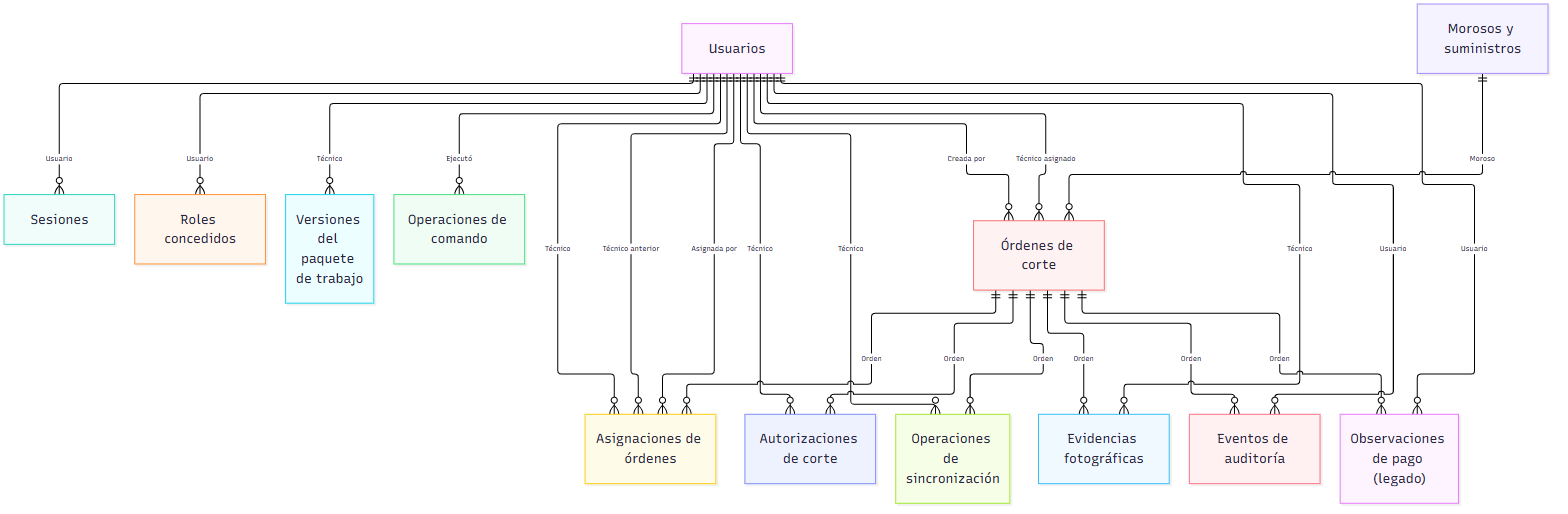
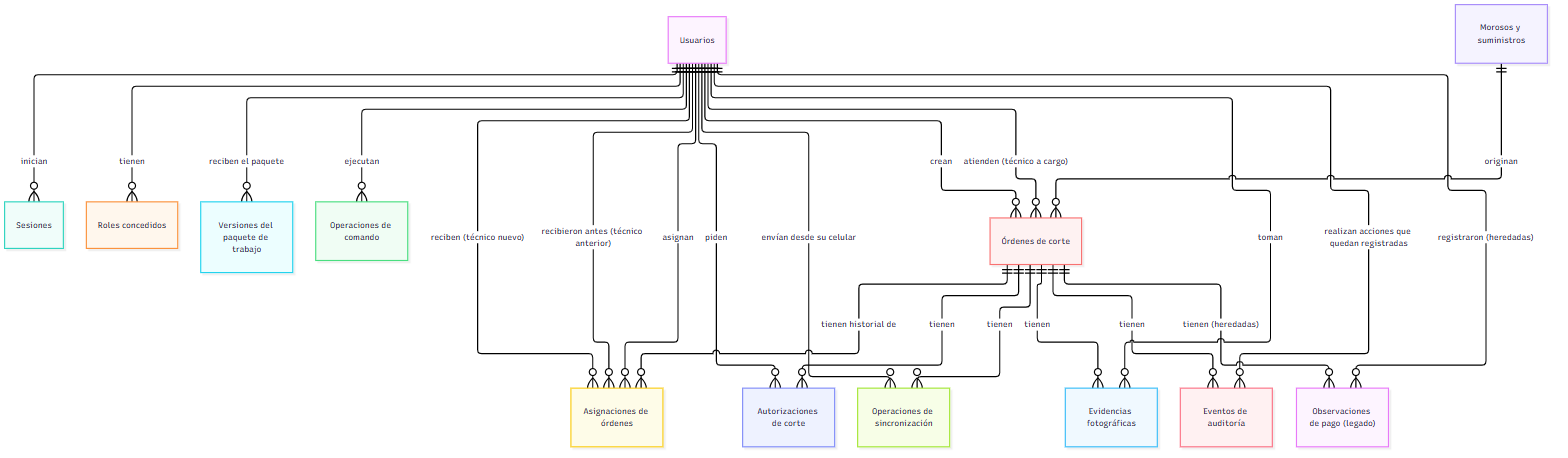
docs(entrega-sepsa): diagrama entidad-relación con relaciones en lenguaje claro (04)
Las etiquetas de las relaciones solo decían el papel («Usuario», «Técnico») y no
qué pasa entre las tablas. Ahora cada línea es una frase corta leída de izquierda a
derecha («Usuarios crean Órdenes de corte»). Mismas 13 tablas y 21 relaciones.
Se añade una frase para leer el diagrama y se actualiza la fecha del apartado.

Claude-Session: https://claude.ai/code/session_01BV4zn2LvmXgKyQC6cnu6on

diff --git a/docs/entrega-sepsa/04-modelo-datos.md b/docs/entrega-sepsa/04-modelo-datos.md
@@ -1,7 +1,7 @@
 # 04. Modelo de datos
 
 Fuente: migraciones `backend/sql/001` a `008`.
-Fecha: 2026-10-13
+Fecha: 2026-10-14
 Estado: entrega, copia fechada. Es el modelo del piloto provisional, no el modelo oficial de SEPSA. Las columnas están en el diccionario de datos.
 
 El modelo tiene 13 tablas, 147 columnas y 21 relaciones.
@@ -22,6 +22,8 @@ El modelo tiene 13 tablas, 147 columnas y 21 relaciones.
 ## Diagrama
 
 ![Diagrama entidad-relación de las 13 tablas y sus 21 relaciones](img/modelo-er.png)
+
+Cada línea une dos tipos de información. La frase sobre la línea dice qué hace uno con el otro, leyendo de izquierda a derecha: «Usuarios crean Órdenes de corte».
 
 Fuente del diagrama: `img/modelo-er.mmd` (Mermaid).
 
